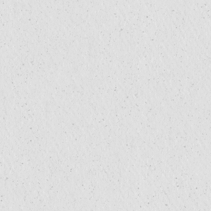
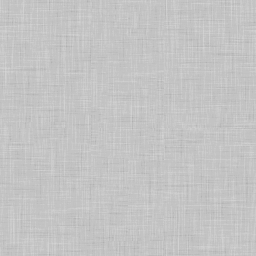
Background fixes

diff --git a/app/assets/stylesheets/common.css.less b/app/assets/stylesheets/common.css.less
@@ -15,7 +15,7 @@ footer {
 }
 
 .container .row {
-  background: url('/assets/bg.jpeg') 0 0 repeat;
+  background: url('/assets/container.png') 0 0 repeat;
   box-shadow: 0 0 10px @defaultShadowColor;
   border-radius: 5px;
 }
